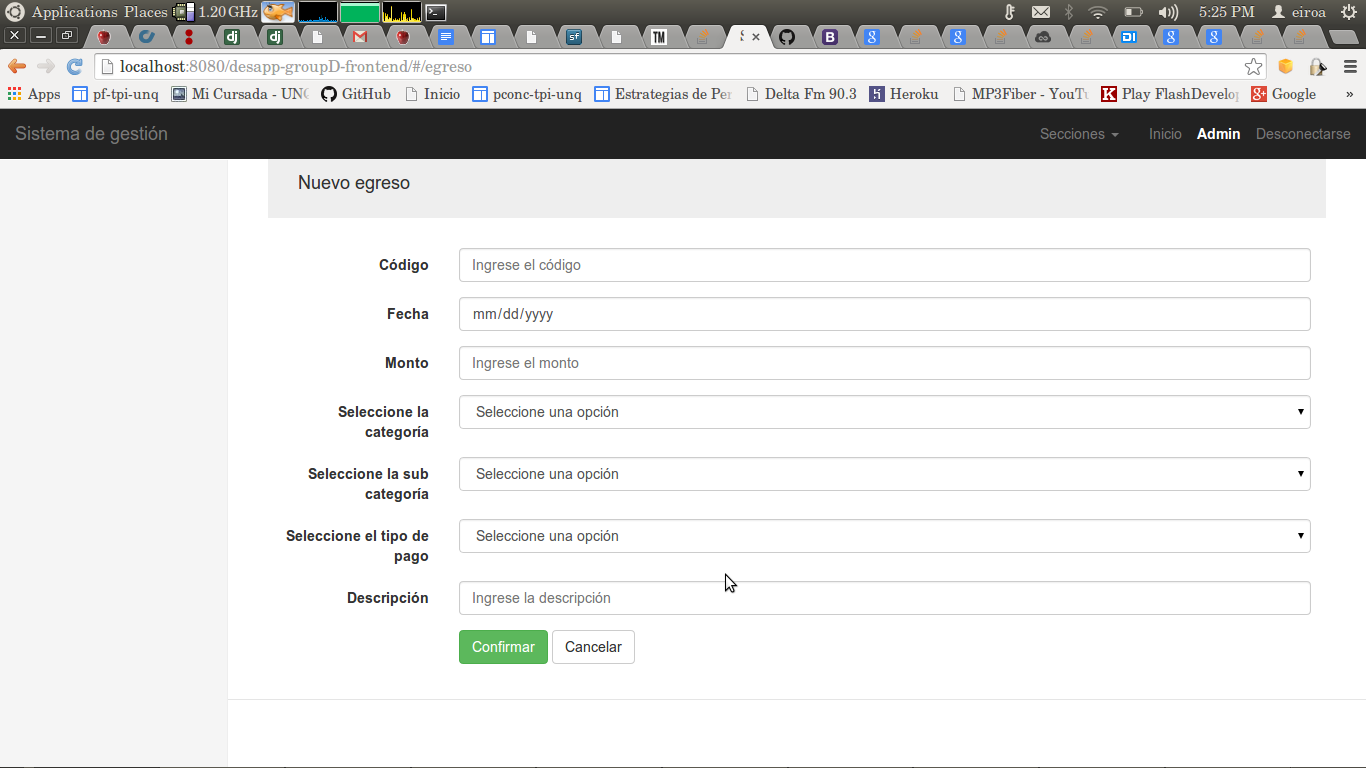
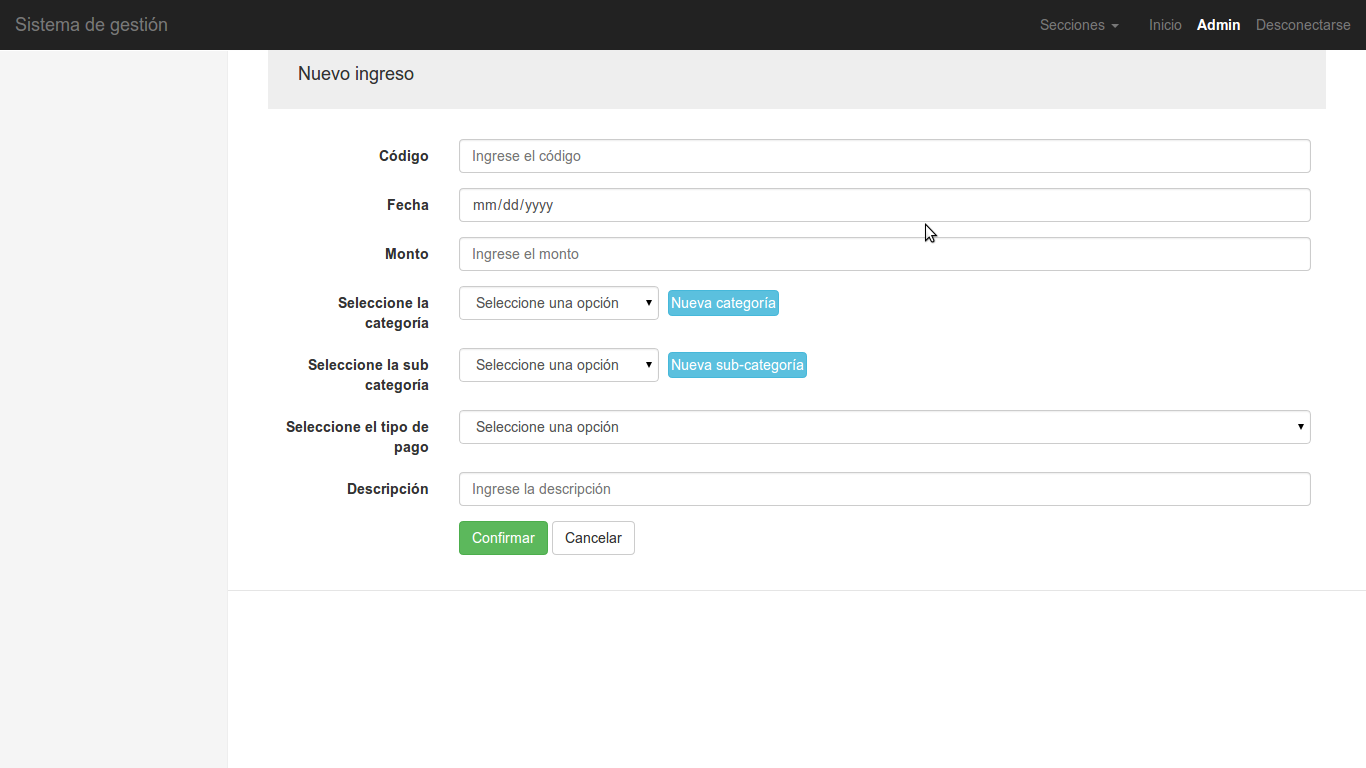
1. Se implementa pequeño dialog mockup para agregar categorias y subcategorias en vista egreso/ingreso 2. Se agregan capturas de pantalla en mockups

diff --git a/desapp-groupD-frontend/WebContent/views/crudMovimiento.html b/desapp-groupD-frontend/WebContent/views/crudMovimiento.html
@@ -6,9 +6,9 @@
 	<div class="container-fluid">
 
 		<div class="bs-example">
-			<form name="crudOperation" class="form-horizontal" >
-			
-			<div class="form-group">
+			<form name="crudOperation" class="form-horizontal">
+
+				<div class="form-group">
 					<label for="inputCodigo" class="control-label col-xs-2">Código</label>
 					<div class="col-xs-10">
 						<input type="text" class="form-control" id="inputCode"
@@ -18,12 +18,11 @@
 				<div class="form-group">
 					<label for="inputDate" class="control-label col-xs-2">Fecha</label>
 					<div class="col-xs-10">
-						<input type="date"   class="form-control" id="inputDate"
-							ng-model="inputDate" 
-							 >
+						<input type="date" class="form-control" id="inputDate"
+							ng-model="inputDate">
 					</div>
 				</div>
-				
+
 				<div class="form-group">
 					<label for="inputAmount" class="control-label col-xs-2">Monto</label>
 					<div class="col-xs-10">
@@ -32,37 +31,64 @@
 					</div>
 				</div>
 				
+
+				
 				<div class="form-group">
 					<label for="selectCategory" class="control-label col-xs-2">Seleccione
 						la categoría</label>
 					<div class="col-xs-10">
-						<select ng-model="selectCategory"
-							ng-options="cat as cat.description for cat in categories"
-							class="form-control" >
-							<option value="" label="Seleccione una opción"></option>
-						</select>
+						<div class="form-inline">
+							<div class="form-group">
+								<select ng-model="selectCategory"
+									ng-options="cat as cat.description for cat in categories"
+									class="form-control"
+									style="width:200px;margin-left:15px;">
+									<option value="" label="Seleccione una opción"></option>
+									
+								</select>
+							</div>
+							<div class="form-group">
+								<button type="submit" class="btn btn-info form control"
+								style="padding:2px;margin-left:35px;"
+									ng-click="dialogNewCategory()">Nueva categoría</button>
+							</div>
+						</div>
+
+
 					</div>
 				</div>
-				
+
 				<div class="form-group">
 					<label for="selectSubCategory" class="control-label col-xs-2">Seleccione
 						la sub categoría</label>
 					<div class="col-xs-10">
-						<select ng-model="selectSubCategory"
+						<div class="form-inline ">
+							<div class="form-group">
+							<select ng-model="selectSubCategory"
 							ng-options="cat as catsub.description for catsub in subcategories"
-							class="form-control" >
+							class="form-control"
+							style="width:200px;margin-left:15px;">
 							<option value="" label="Seleccione una opción"></option>
 						</select>
+						</div>
+							<div class="form-group">
+							<button type="submit" class="btn btn-info form control"
+								style="padding:2px;margin-left:35px;"
+									ng-click="dialogNewSubcategory()">Nueva sub-categoría</button>
+							
+							</div>
+						</div>
+						
 					</div>
 				</div>
-				
+
 				<div class="form-group">
 					<label for="selectPaymentType" class="control-label col-xs-2">Seleccione
 						el tipo de pago</label>
 					<div class="col-xs-10">
 						<select ng-model="selectPaymentType"
 							ng-options="ptype as ptype.name for ptype in ptypes"
-							class="form-control" >
+							class="form-control">
 							<option value="" label="Seleccione una opción"></option>
 						</select>
 					</div>
@@ -83,10 +109,10 @@
 						<button type="submit" class="btn btn-success"
 							ng-click="updateOperation()" ng-show="modoEdicion()">Actualizar</button>
 
-						<a type="button" class="btn btn-default" ng-href="#empresas">Cancelar</a>
+						<a type="button" class="btn btn-default" ng-href="#cargarDatos">Cancelar</a>
 					</div>
 				</div>
-				
+
 			</form>
 		</div>
 	</div>

diff --git a/desapp-groupD-frontend/WebContent/scripts/controllers/crudOperation.js b/desapp-groupD-frontend/WebContent/scripts/controllers/crudOperation.js
@@ -7,7 +7,7 @@
  */
 var app = angular.module('tp-dapp-eiroa-lando');
 app.controller('CrudOperationCtrl', function($scope, $location, $http,
-		$rootScope, growl,globalService) {
+		$rootScope, growl,globalService,dialogs) {
 	globalService.setInNewOperation();
 	if ($rootScope.editingOperation) {
 		var operationToEdit = $rootScope.operationToEdit;
@@ -112,5 +112,26 @@ app.controller('CrudOperationCtrl', function($scope, $location, $http,
 		
 		}
 	}
+	
+	 $scope.dialogNewCategory = function() {
+	 	var dlg = dialogs.create('views/newCategory.html','NewCategoryCtrl',{},'lg');
+		dlg.result.then(function(name){
+			alert('New category is ' +name);
+		},function(){
+			if(angular.equals($scope.name,''))
+				$scope.name = 'You did not enter in your name!';
+		});
+	 };
+	 
+	 $scope.dialogNewSubcategory = function() {
+		 	var dlg = dialogs.create('views/newSubcategory.html','NewSubcategoryCtrl',{},'lg');
+			dlg.result.then(function(name){
+				alert('New category is ' +name);
+			},function(){
+				if(angular.equals($scope.name,''))
+					$scope.name = 'You did not enter in your name!';
+			});
+		 };
 
 });
+

diff --git a/desapp-groupD-frontend/WebContent/scripts/controllers/newSubcategory.js b/desapp-groupD-frontend/WebContent/scripts/controllers/newSubcategory.js
@@ -1,0 +1,30 @@
+'use strict';
+
+/**
+ * @ngdoc function
+ * @name tpDesapMockupsApp.controller:AboutCtrl
+ * @description
+ * # AboutCtrl
+ * Controller of the tpDesapMockupsApp
+ */
+angular.module('tp-dapp-eiroa-lando')
+  .controller('NewSubcategoryCtrl', function ($scope,$modalInstance,data) {
+	//-- Variables --//
+
+		$scope.user = {name : ''};
+
+		//-- Methods --//
+
+		$scope.cancel = function(){
+			$modalInstance.dismiss('Canceled');
+		}; // end cancel
+
+		$scope.save = function(){
+			$modalInstance.close($scope.user.name);
+		}; // end save
+
+//		$scope.hitEnter = function(evt){
+//			if(angular.equals(evt.keyCode,13) && !(angular.equals($scope.user.name,null) || angular.equals($scope.user.name,'')))
+//				$scope.save();
+//		};
+  });

diff --git a/desapp-groupD-frontend/WebContent/scripts/controllers/newCategory.js b/desapp-groupD-frontend/WebContent/scripts/controllers/newCategory.js
@@ -1,0 +1,30 @@
+'use strict';
+
+/**
+ * @ngdoc function
+ * @name tpDesapMockupsApp.controller:AboutCtrl
+ * @description
+ * # AboutCtrl
+ * Controller of the tpDesapMockupsApp
+ */
+angular.module('tp-dapp-eiroa-lando')
+  .controller('NewCategoryCtrl', function ($scope,$modalInstance,data) {
+	//-- Variables --//
+
+		$scope.user = {name : ''};
+
+		//-- Methods --//
+
+		$scope.cancel = function(){
+			$modalInstance.dismiss('Canceled');
+		}; // end cancel
+
+		$scope.save = function(){
+			$modalInstance.close($scope.user.name);
+		}; // end save
+
+//		$scope.hitEnter = function(evt){
+//			if(angular.equals(evt.keyCode,13) && !(angular.equals($scope.user.name,null) || angular.equals($scope.user.name,'')))
+//				$scope.save();
+//		};
+  });

diff --git a/desapp-groupD-frontend/WebContent/index.html b/desapp-groupD-frontend/WebContent/index.html
@@ -261,6 +261,8 @@
 	<script src="scripts/controllers/helpers/secHelper.js"></script>
 	<script src="scripts/controllers/cargarDatos.js"></script>
 	<script src="scripts/controllers/accounts.js"></script>
+	<script src="scripts/controllers/newCategory.js"></script>
+	<script src="scripts/controllers/newSubcategory.js"></script>
 		<script src="scripts/controllers/crudOperation.js"></script>
 	<script src="scripts/modules/login_module.js"></script>
 	<script src="scripts/modules/content_module.js"></script>

diff --git a/desapp-groupD-frontend/WebContent/views/newSubcategory.html b/desapp-groupD-frontend/WebContent/views/newSubcategory.html
@@ -1,0 +1,14 @@
+<div class="container">
+	<h4>Nueva Sub categoría</h4>
+	<div class="form-group">
+		<label for="name" class="control-label col-xs-2">Nombre</label>
+		<div class="col-xs-10">
+			<input type="text" class="form-control" id="name" ng-model="name">
+		</div>
+	</div>
+	<div class="form-group">
+		<button class="btn btn-success">Guardar</button>
+		<button class="btn " ng-click="cancel()">Cancelar</button>
+	</div>
+
+</div>

diff --git a/desapp-groupD-frontend/WebContent/scripts/app.js b/desapp-groupD-frontend/WebContent/scripts/app.js
@@ -240,8 +240,8 @@
 				controller : 'AboutCtrl'
 			}).when('/ingreso', {
 				templateUrl : 'views/crudMovimiento.html',
-				controller : 'CrudOperationCtrl'
-				
+				controller : 'CrudOperationCtrl',
+//				resolve: { data:function(){alert('Hello');}}
 			}).when('/egreso', {
 				templateUrl : 'views/crudMovimiento.html',
 				controller : 'CrudOperationCtrl'

diff --git a/desapp-groupD-frontend/WebContent/views/newCategory.html b/desapp-groupD-frontend/WebContent/views/newCategory.html
@@ -1,0 +1,12 @@
+<div class="container">
+<h4> Nueva Categoría</h4>
+
+	<label for="name" class="control-label col-xs-2">Nombre</label>
+	<div class="col-xs-10">
+		<input type="text" class="form-control" id="name"
+			ng-model="name">
+	</div>
+
+<button class="btn btn-success"> Guardar</button>
+<button class="btn" ng-click="cancel()"> Cancelar</button>
+</div>
